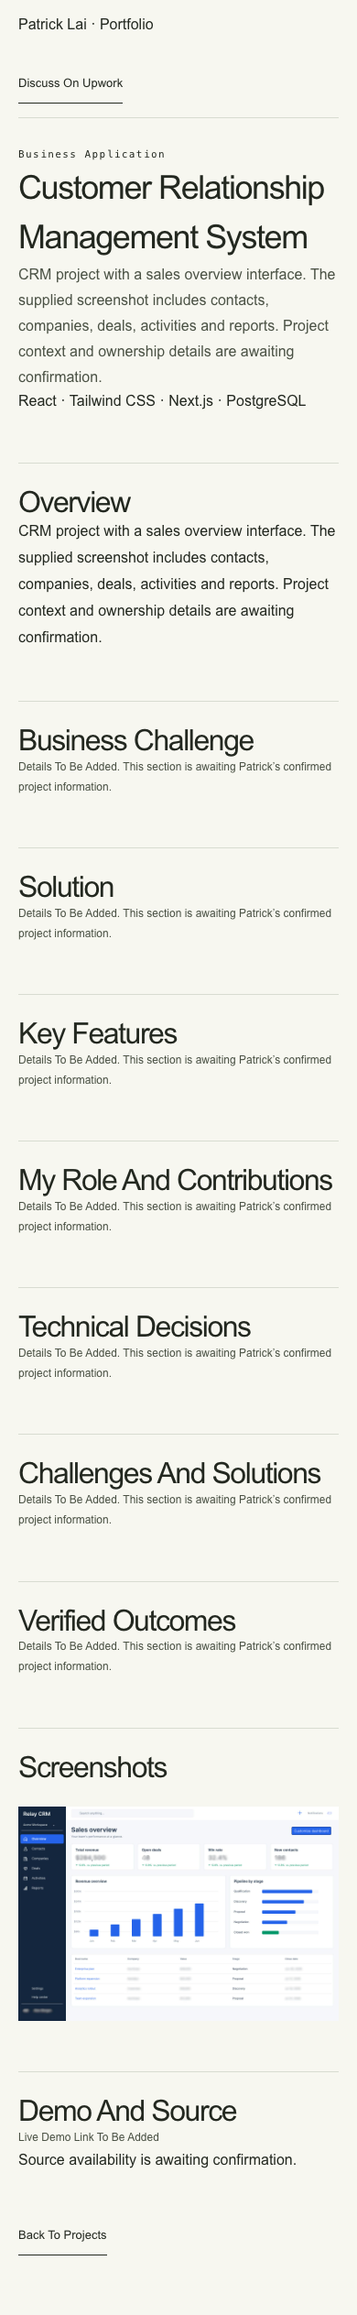
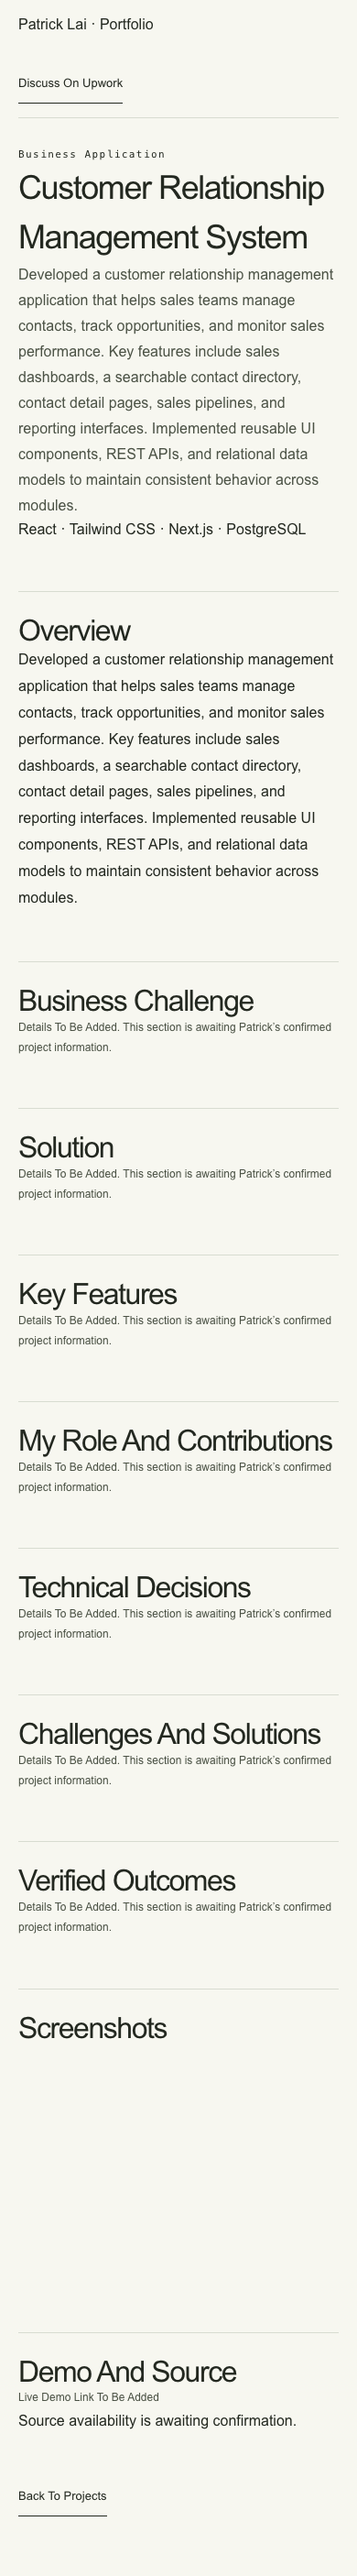
Show Upwork project descriptions and hide incomplete case links

diff --git a/components/portfolio-home.tsx b/components/portfolio-home.tsx
@@ -4,13 +4,12 @@ import { profile, experiences, steps } from '@/lib/content';
 import { projects, services } from '@/lib/projects';
 
 export function PortfolioHome({ upworkOnly = false }: { upworkOnly?: boolean }) {
-  const root = upworkOnly ? '/upwork/' : '/';
   return <><ProcessMoment/><header className="nav wrap v2-header"><span className="wordmark"><img className="avatar" src="/images/patrick-avatar.webp" width="56" height="56" alt="Patrick Lai"/>{profile.name}</span><nav aria-label="Main Navigation"><a href="#projects">Projects</a><a href="#services">Services</a><a data-track="upwork_click" href={profile.upwork}>Discuss On Upwork</a></nav></header><main className="portfolio-main">
-    <section className="v2-hero"><div className="wrap"><div className="hero-text"><p className="eyebrow">INDEPENDENT DEVELOPER · 10+ YEARS OF EXPERIENCE</p><h1>I Build Web Apps That Solve <em>Real Business Problems.</em></h1><p className="v2-lead">Full-stack developer with 10+ years of software development experience. I build responsive web applications, custom business dashboards, Shopify solutions, and workflow automations.</p><div className="hero-proof"><img src="/images/crm-thumb.webp" alt="CRM project sales dashboard preview" width="720" height="480"/></div><div className="v2-actions"><a className="button" href="#projects">View Live Projects</a><a className="text-link" data-track="upwork_click" href={profile.upwork}>Discuss On Upwork</a></div><p className="v2-note">Live demo links are being added. Screenshots and case studies are available below.</p></div></div></section>
-    <section id="projects" className="section"><div className="wrap"><p className="eyebrow">01 / FEATURED PROJECTS</p><h2>Project Work</h2><div className="grid v2-projects">{projects.map(project=><article className="card v2-project" key={project.slug}><p className="eyebrow">{project.category}</p><h3><Link href={`${root}projects/${project.slug}/`}>{project.title}</Link></h3><Link href={`${root}projects/${project.slug}/`} tabIndex={-1} aria-hidden="true"><img src={project.image.replace(/\.jpg$/, "-thumb.webp")} alt="" width="900" height="600" loading="lazy"/></Link><details className="project-description"><summary>Project Details</summary><p>{project.overview}</p><dl><dt>Business Problem</dt><dd>Details To Be Added</dd><dt>Solution Summary</dt><dd>Details To Be Added</dd><dt>My Contribution</dt><dd>Scope And Responsibilities To Be Confirmed</dd></dl></details><p className="portfolio-tech" title={project.technologies.join(' · ')}>{project.technologies.join(' · ')}</p><div className="v2-actions">{project.demo ? <a className="button" data-track="demo_click" data-project={project.slug} href={project.demo}>Live Demo</a> : <span className="v2-pending">Live Demo · Link To Be Added</span>}<Link className="text-link" href={`${root}projects/${project.slug}/`}>Case Study</Link></div></article>)}</div></div></section>
+    <section className="v2-hero"><div className="wrap"><div className="hero-text"><p className="eyebrow">INDEPENDENT DEVELOPER · 10+ YEARS OF EXPERIENCE</p><h1>I Build Web Apps That Solve <em>Real Business Problems.</em></h1><p className="v2-lead">Full-stack developer with 10+ years of software development experience. I build responsive web applications, custom business dashboards, Shopify solutions, and workflow automations.</p><div className="hero-proof"><img src="/images/crm-thumb.webp" alt="CRM project sales dashboard preview" width="720" height="480"/></div><div className="v2-actions"><a className="button" href="#projects">View Projects</a><a className="text-link" data-track="upwork_click" href={profile.upwork}>Discuss On Upwork</a></div></div></div></section>
+    <section id="projects" className="section"><div className="wrap"><p className="eyebrow">01 / FEATURED PROJECTS</p><h2>Project Work</h2><div className="grid v2-projects">{projects.map(project=><article className="card v2-project" key={project.slug}><p className="eyebrow">{project.category}</p><h3>{project.title}</h3><div className="project-preview"><img src={project.image.replace(/\.jpg$/, "-thumb.webp")} alt="" width="900" height="600" loading="lazy"/></div><details className="project-description" open><summary>Project Details</summary><p>{project.overview}</p></details><p className="portfolio-tech" title={project.technologies.join(' · ')}>{project.technologies.join(' · ')}</p></article>)}</div></div></section>
     <section id="services" className="stack-section"><div className="wrap section"><p className="eyebrow">02 / SERVICES</p><h2>What I Can Build For You</h2><div className="grid v2-services">{services.map((service,i)=><article className="card" key={service.title}><img className="service-icon" src={["/icons/react.svg","/icons/shopify.svg","/icons/nodedotjs.svg","/icons/n8n.svg"][i]} alt="" width="40" height="40" loading="lazy"/><h3>{service.title}</h3><p>{service.text}</p></article>)}</div></div></section>
     <section className="section"><div className="wrap"><p className="eyebrow">03 / PROFESSIONAL EXPERIENCE</p><h2>Development Experience</h2><div className="experience-layout"><ol className="v2-timeline">{experiences.map(experience=><li key={experience.company}><p className="mono">{experience.period}</p><h3>{experience.company!=="Freelance"&&<img className="company-icon" src={`/icons/${experience.company.toLowerCase()}.png`} alt="" width="32" height="32" loading="lazy"/>}{experience.company}</h3><p>{experience.role}</p></li>)}</ol><img className="experience-proof" src="/images/shein.jpg" alt="SHEIN desktop e-commerce work from my professional portfolio" width="1000" height="700" loading="lazy"/></div></div></section>
     <section className="process-section" data-moment="word-highlight"><div className="wrap section"><p className="eyebrow">04 / WORKING PROCESS</p><h2>How We’ll Work Together</h2><p className="mo-wh__text">We agree on the scope before development starts. You review working previews, test the features, and receive the code with setup notes.</p><svg className="process-diagram" viewBox="0 0 1120 240" role="img" aria-label="Project flow: Discovery, Build, Quality, Delivery"><path d="M120 120H1000" stroke="#82956b" strokeWidth="2"/>{["Discovery","Build","Quality","Delivery"].map((label,i)=><g key={label}><circle cx={140+i*280} cy="110" r="64" fill="#e1e9d5" stroke="#82956b"/><text x={140+i*280} y="115" textAnchor="middle" fill="#253b2d" fontSize="18">{label}</text></g>)}</svg><ol className="grid process-grid milestone-grid v2-process">{steps.map((step,i)=><li key={step.title}><span className="step-number"><span className="milestone-node">0{i+1}</span></span><h3>{step.title}</h3><p>{step.text}</p></li>)}</ol></div></section>
-    <section className="section"><div className="wrap"><p className="eyebrow">05 / FAQ</p><h2>Before We Start</h2><div className="faq-symbol" aria-hidden="true"><svg viewBox="0 0 64 64"><path d="M8 10h48v34H30L16 56V44H8Z"/><path d="M25 23a7 7 0 1 1 11 6l-4 3v3"/><circle cx="32" cy="39" r="1"/></svg></div><div className="v2-faq">{[['What Should I Send You?', 'A brief, screenshot, Figma file or link to the existing product is enough to start discussing scope.'],['Can You Work On An Existing Product?', 'Yes. I review the codebase and requirements before agreeing on the work.'],['How Are Scope And Timing Agreed?', 'We agree on deliverables and milestones before development starts. Timing depends on the scope and the existing codebase.'],['Are Live Demos Available?', 'Demo links are being added. The portfolio currently includes project screenshots and case-study pages with missing details explicitly marked.']].map(([q,a])=><details key={q}><summary>{q}</summary><p>{a}</p></details>)}</div><a className="button faq-cta" data-track="upwork_click" href={profile.upwork}>Discuss On Upwork</a></div></section>
+    <section className="section"><div className="wrap"><p className="eyebrow">05 / FAQ</p><h2>Before We Start</h2><div className="faq-symbol" aria-hidden="true"><svg viewBox="0 0 64 64"><path d="M8 10h48v34H30L16 56V44H8Z"/><path d="M25 23a7 7 0 1 1 11 6l-4 3v3"/><circle cx="32" cy="39" r="1"/></svg></div><div className="v2-faq">{[['What Should I Send You?', 'A brief, screenshot, Figma file or link to the existing product is enough to start discussing scope.'],['Can You Work On An Existing Product?', 'Yes. I review the codebase and requirements before agreeing on the work.'],['How Are Scope And Timing Agreed?', 'We agree on deliverables and milestones before development starts. Timing depends on the scope and the existing codebase.'],['Are Live Demos Available?', 'The portfolio currently includes project screenshots and descriptions. Live demos are not available yet.']].map(([q,a])=><details key={q}><summary>{q}</summary><p>{a}</p></details>)}</div><a className="button faq-cta" data-track="upwork_click" href={profile.upwork}>Discuss On Upwork</a></div></section>
   </main><footer className="closing contact-section"><div className="wrap"><div className="footer-call"><p className="eyebrow">DISCUSS YOUR PROJECT</p><h2>What Do You Need<br/><span className="serif">To Build?</span></h2><div className="contact-bottom"><a data-track="upwork_click" href={profile.upwork} className="button button-light">Discuss On Upwork</a>{!upworkOnly&&<div className="contact-links"><a href={`mailto:${profile.email}`} aria-label="Email" title="Email">@</a><a href={profile.github} aria-label="GitHub" title="GitHub"><img src="/icons/github.svg" alt="" width="25" height="25" loading="lazy"/></a></div>}</div></div><div className="footer-baseline"><span>© {new Date().getFullYear()} Patrick Lai</span>{!upworkOnly&&<Link href='/upwork/'>Upwork Portfolio</Link>}</div></div></footer></>;
 }

diff --git a/app/globals.css b/app/globals.css
@@ -49,7 +49,7 @@
 .v2-hero{position:relative;padding-right:42%;min-height:calc(100svh - 110px)}.v2-hero h1{font-size:clamp(40px,4.5vw,65px)}.hero-proof{position:absolute;right:0;top:32%;width:38%;border:1px solid var(--line);padding:10px;background:#e9eddf}.hero-proof img{width:100%;height:auto;display:block}.v2-project h3,.v2-services h3,.v2-timeline h3,.v2-process h3{font-size:24px!important;line-height:1.25;font-weight:400}.v2-project h3{min-height:90px}.v2-timeline h3{display:flex;gap:12px;align-items:center}.company-icon{width:32px;height:32px;object-fit:contain}.service-icon{margin-bottom:20px}.faq-symbol{margin-top:25px}.faq-symbol svg{width:55px;height:55px;fill:none;stroke:#456138;stroke-width:2}.faq-cta{margin-top:28px}.v2-process .milestone-node{font-size:16px}.v2-process .step-number{color:var(--ink)}.v2-project a{scroll-margin-block:100px}.v2-project a:focus-visible{background:#e2edce;box-shadow:0 0 0 5px var(--paper);outline:3px solid #365d21!important;outline-offset:5px!important}.v2-faq summary:focus-visible{background:#e2edce}.v2-timeline{gap:30px}.v2-timeline article{padding-left:0;border-left:0;border-top:1px solid var(--line);padding-top:20px}.v2-timeline article:before{left:0;top:-5px}
 @media(min-width:1100px){.portfolio-main>section:not(.v2-hero){min-height:100svh}.portfolio-main>#projects{min-height:200svh}.closing{min-height:100svh;display:flex;align-items:center}.closing>.wrap{width:min(1120px,calc(100% - 128px))}}
 @media(max-width:767px){.v2-hero{padding-right:0}.hero-proof{position:static;width:100%;margin-top:25px}.v2-project h3{min-height:0}.v2-process article{padding-left:0;padding-top:60px}.v2-process .step-number{top:0}.v2-process article:before{display:none}.v2-process h3{padding-top:0}}
-@media(min-width:1100px){.v2-header{position:absolute;left:0;right:0;top:0;z-index:5}.v2-hero{height:100svh;min-height:100svh;padding-top:150px;padding-bottom:60px}.v2-projects{grid-template-columns:1fr;gap:25px;margin-top:30px}.v2-project{display:grid;grid-template-columns:minmax(0,1fr) minmax(0,1fr);column-gap:40px;align-content:start;min-height:430px;padding-top:25px}.v2-project>*{grid-column:2;margin-top:0}.v2-project>a{grid-column:1;grid-row:1 / span 8;align-self:center}.v2-project>a img{aspect-ratio:1.4;max-height:380px}.v2-project h3{min-height:0;margin-bottom:10px}.v2-project p{margin-bottom:10px}.v2-project dl{display:grid;grid-template-columns:1fr 1fr;gap:5px 18px;margin:0}.v2-project dt{margin-top:0}.v2-project dd{margin-bottom:8px}.v2-project .v2-actions{margin-top:10px}.v2-projects+*{margin:0}.v2-projects .v2-project{border-top:1px solid var(--line)}.portfolio-main>section:not(.v2-hero){height:100svh;min-height:100svh}.portfolio-main>#projects{height:200svh;min-height:200svh}.closing{height:100svh}}
+@media(min-width:1100px){.v2-header{position:absolute;left:0;right:0;top:0;z-index:5}.v2-hero{height:100svh;min-height:100svh;padding-top:150px;padding-bottom:60px}.v2-projects{grid-template-columns:1fr;gap:25px;margin-top:30px}.v2-project{display:grid;grid-template-columns:minmax(0,1fr) minmax(0,1fr);column-gap:40px;align-content:start;min-height:430px;padding-top:25px}.v2-project>*{grid-column:2;margin-top:0}.v2-project>.project-preview{grid-column:1;grid-row:1 / span 8;align-self:center}.v2-project>.project-preview img{aspect-ratio:1.4;max-height:380px}.v2-project h3{min-height:0;margin-bottom:10px}.v2-project p{margin-bottom:10px}.v2-project dl{display:grid;grid-template-columns:1fr 1fr;gap:5px 18px;margin:0}.v2-project dt{margin-top:0}.v2-project dd{margin-bottom:8px}.v2-project .v2-actions{margin-top:10px}.v2-projects+*{margin:0}.v2-projects .v2-project{border-top:1px solid var(--line)}.portfolio-main>section:not(.v2-hero){height:100svh;min-height:100svh}.portfolio-main>#projects{height:200svh;min-height:200svh}.closing{height:100svh}}
 html{scroll-behavior:auto}.v2-hero{padding-right:0}.v2-hero h1,.v2-hero .v2-lead{max-width:58%}.hero-proof{top:30%}.experience-layout{display:grid;grid-template-columns:1fr 1fr;gap:40px;align-items:center;margin-top:50px}.experience-proof{width:100%;height:480px;object-fit:contain;background:#e9eddf}.v2-timeline{margin-top:0}.process-diagram{display:block;width:100%;height:240px;margin-top:30px}.v2-process{margin-top:15px}.v2-services{margin-top:30px}.service-icon{width:130px;height:130px;object-fit:contain}.v2-services article{display:grid;grid-template-columns:130px 1fr;column-gap:25px;align-content:center;min-height:230px}.v2-services article>.service-icon{grid-row:1 / span 2;margin:0;align-self:center}.v2-services h3{margin:0 0 15px}.v2-services article>p{margin:0}
 @media(max-width:1099px){.v2-hero h1,.v2-hero .v2-lead{max-width:100%}.hero-proof{position:static;width:100%;max-width:500px;margin-top:25px}.v2-hero{padding-top:50px}.v2-services article{grid-template-columns:80px 1fr}.service-icon{width:80px;height:80px}}
 @media(max-width:767px){.experience-layout{grid-template-columns:1fr;margin-top:30px}.experience-proof{height:auto}.v2-services article{grid-template-columns:64px 1fr;gap:18px;min-height:200px}.service-icon{width:64px;height:64px}.process-diagram{height:120px}.v2-hero h1,.v2-hero .v2-lead{max-width:100%}}

diff --git a/lib/projects.ts b/lib/projects.ts
@@ -1,7 +1,7 @@
 export const projects = [
-  { slug: 'shein', title: 'SHEIN Global E-commerce', category: 'Professional Employment Project', image: '/images/shein.jpg', technologies: ['Vue.js', 'Node.js', 'ExpressJS', 'SCSS'], overview: 'Desktop and PWA e-commerce project listed in my Upwork portfolio. Completed in the context of my front-end role at SHEIN; this is an employer-owned product and is not presented as solely my work.', demo: '', source: '' },
-  { slug: 'hr-management', title: 'Human Resources Management System', category: 'Business Application', image: '/images/hr-management.jpg', technologies: ['React', 'Next.js', 'OpenAPI', 'Tailwind CSS'], overview: 'Human resources management application listed in my Upwork portfolio. Project context and ownership details are awaiting confirmation.', demo: '', source: '' },
-  { slug: 'crm', title: 'Customer Relationship Management System', category: 'Business Application', image: '/images/crm.jpg', technologies: ['React', 'Tailwind CSS', 'Next.js', 'PostgreSQL'], overview: 'CRM project with a sales overview interface. The supplied screenshot includes contacts, companies, deals, activities and reports. Project context and ownership details are awaiting confirmation.', demo: '', source: '' },
+  { slug: 'shein', title: 'SHEIN Global E-commerce', category: 'Professional Employment Project', image: '/images/shein.jpg', technologies: ['Vue.js', 'Node.js', 'ExpressJS', 'SCSS'], overview: 'Built a responsive fashion e-commerce experience with a focus on mobile usability and image-heavy product browsing. Implemented responsive images, lazy loading for off-screen content, route-level code splitting, and cached product queries. Improved search and filtering interactions through debounced input and URL-based state persistence.', demo: '', source: '' },
+  { slug: 'hr-management', title: 'Human Resources Management System', category: 'Business Application', image: '/images/hr-management.jpg', technologies: ['React', 'Next.js', 'OpenAPI', 'Tailwind CSS'], overview: 'Implemented recruitment and time-off workflows for HR teams and line managers. Built a candidate pipeline, interview status tracking, leave request forms, approval queues, and team absence calendars. Developed configurable leave balance calculations and approval rules, including validation for overlapping requests and insufficient balances.', demo: '', source: '' },
+  { slug: 'crm', title: 'Customer Relationship Management System', category: 'Business Application', image: '/images/crm.jpg', technologies: ['React', 'Tailwind CSS', 'Next.js', 'PostgreSQL'], overview: 'Developed a customer relationship management application that helps sales teams manage contacts, track opportunities, and monitor sales performance. Key features include sales dashboards, a searchable contact directory, contact detail pages, sales pipelines, and reporting interfaces. Implemented reusable UI components, REST APIs, and relational data models to maintain consistent behavior across modules.', demo: '', source: '' },
 ];
 export const caseSections = ['Business Challenge', 'Solution', 'Key Features', 'My Role And Contributions', 'Technical Decisions', 'Challenges And Solutions', 'Verified Outcomes'];
 export const services = [
